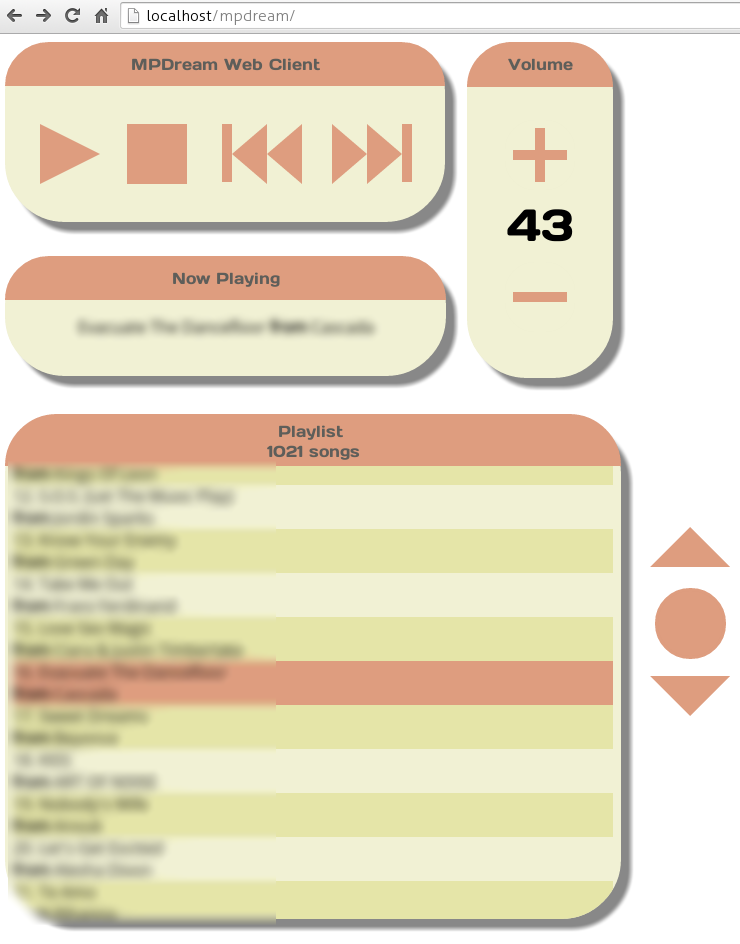
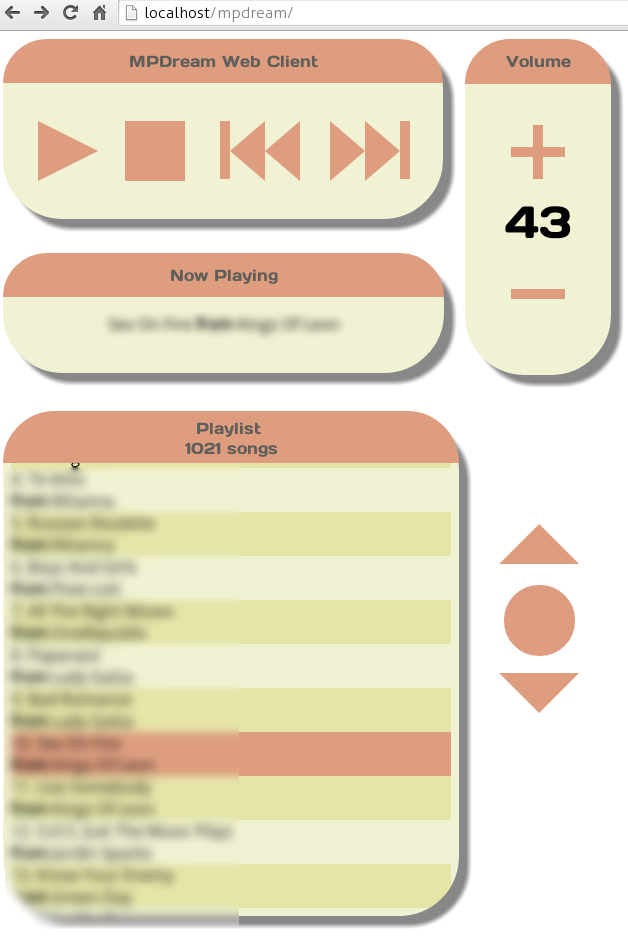
Change queue playlist width

diff --git a/css/styles.css b/css/styles.css
@@ -166,7 +166,7 @@ font-family: 'Days One', sans-serif;
 .ptitle {
 	position: absolute;
 	top: 380px;
-	width: 616px;
+	width: 456px;
 	color: #5E5E5A;
 	height:33px;
 	font-family: 'Days One', sans-serif;
@@ -187,7 +187,7 @@ font-family: 'Days One', sans-serif;
 	padding-right: 8px;
 	position: absolute;
 	top: 380px;
-	width: 600px;
+	width: 440px;
 	max-height:400px;
 	overflow-y:hidden;
 	font-family: 'Open Sans', sans-serif;
@@ -335,7 +335,7 @@ font-family: 'Days One', sans-serif;
 	width:0;
 	position: absolute;
 	top: 490px;
-	left:623px;
+	left:474px;
 }
 
 #scroll-focus-queue {
@@ -350,7 +350,7 @@ font-family: 'Days One', sans-serif;
 	width:65px;
 	position: absolute;
 	top: 554px;
-	left:628px;
+	left:479px;
 }
 
 #scroll-down-queue {
@@ -366,5 +366,5 @@ font-family: 'Days One', sans-serif;
 	width:0;
 	position: absolute;
 	top: 642px;
-	left:623px;
+	left:474px;
 }
